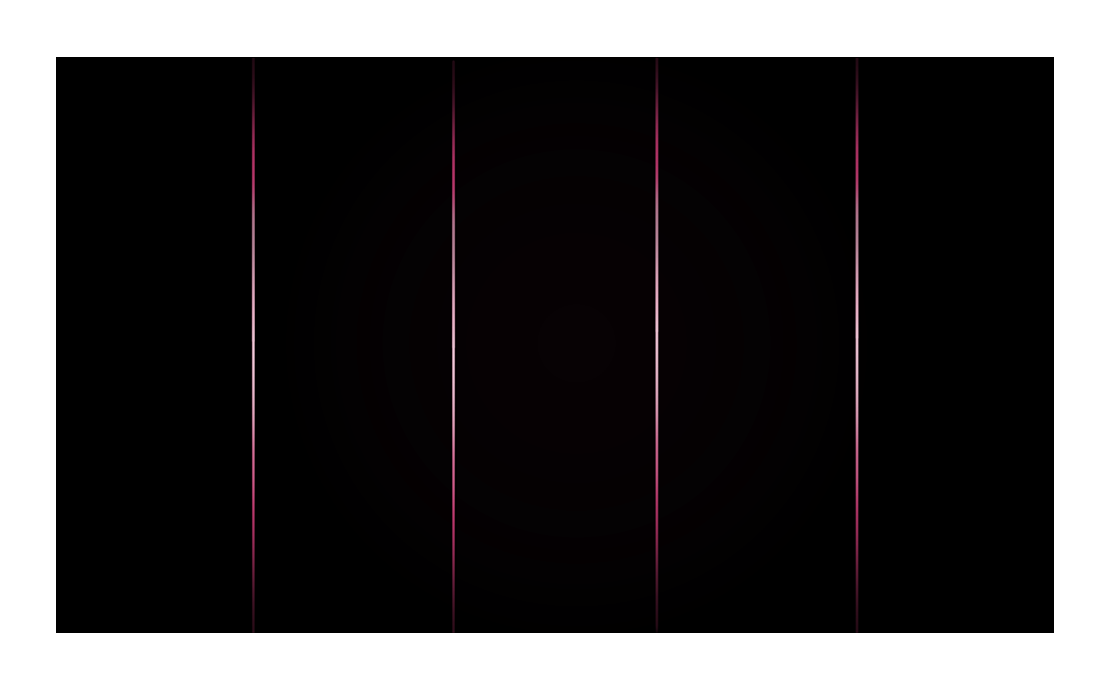
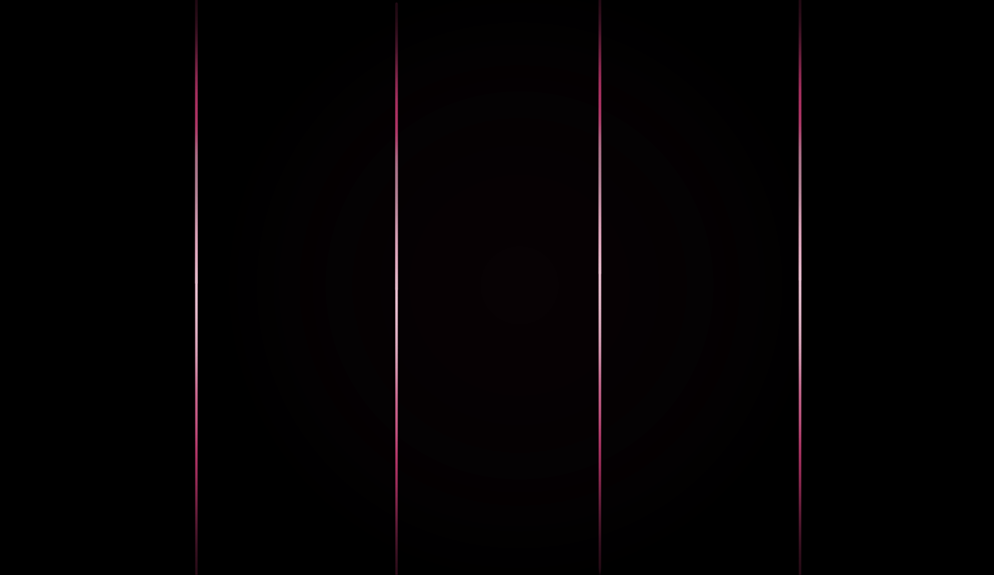
feat: add reels and tiles

Changed region(s): [[0.0, 0.0, 1.0, 1.0], [0.1871, 0.3252, 0.2495, 0.6504], [0.4054, 0.2957, 0.4366, 0.6209]]

diff --git a/index.ts b/index.ts
@@ -3,10 +3,19 @@ import { Machine } from "./src/Machine";
 import { urls } from "./img";
 import { SpinButton } from "./src/SpinButton";
 import { delay } from './src/utils'
+import { Outcome } from './src/Outcome';
 
-const screen = {
-    width: 1920,
-    height: 1080
+const config = {
+    screen: {
+        width: 1920,
+        height: 1080,
+    },
+    reels: {
+        columns: 5,
+        rows: 5,
+        visibleTiles: 3,
+    },
+    symbols: ['high1', 'high2', 'high3', 'low1', 'low2', 'low3', 'low4']
 };
 
 const STATES = {
@@ -22,18 +31,20 @@ class MainScene extends Container {
     constructor() {
         super();
 
+        const { screen, reels, symbols } = config;
+
         const background = Sprite.from('background');
         background.anchor.set(0.5);
         background.position.set(screen.width * 0.5, screen.height * 0.5);
         this.addChild(background);
 
-        const reels = Sprite.from('reels_base');
-        reels.anchor.set(0.5);
-        reels.position.set(screen.width * 0.5, screen.height * 0.5);
-        this.addChild(reels);
+        const reelsBg = Sprite.from('reels_base');
+        reelsBg.anchor.set(0.5);
+        reelsBg.position.set(screen.width * 0.5, screen.height * 0.5);
+        this.addChild(reelsBg);
 
-        const machine = new Machine();
-        machine.position.set(screen.width * 0.5 - reels.width * 0.5, screen.height * 0.5 - reels.height * 0.5);
+        const machine = new Machine({ reelsGuide: reelsBg, config: { ...reels, symbols } });
+        machine.position.set(screen.width * 0.5 - reelsBg.width * 0.5, screen.height * 0.5 - reelsBg.height * 0.5);
         this.addChild(machine);
 
         const spinButton = new SpinButton();
@@ -81,6 +92,8 @@ class Game {
     async setState(state: typeof STATES[keyof typeof STATES]): Promise<void> {
         if (this._state === state) return;
 
+        const { reels: { columns, rows }, symbols } = config;
+
         this._state = state;
 
         switch (state) {
@@ -93,6 +106,10 @@ class Game {
             case STATES.SPINNING:
                 console.error('SPINNING') // TEMP
                 await delay(1);
+
+                const response = Outcome.resolve({ columns, rows, symbols });
+                console.error(response)
+
                 return await this.setState(STATES.WIN);
 
             case STATES.WIN:
@@ -108,7 +125,7 @@ class Game {
 
     globalThis.__PIXI_APP__ = app; // TEMP
 
-    await app.init({ width: screen.width, height: screen.height });
+    await app.init(config.screen);
     document.body.appendChild(app.canvas);
 
     const game = new Game();
@@ -129,6 +146,8 @@ class Game {
 })();
 
 function resize(container: Container) {
+    const { screen } = config;
+
     const scale = Math.min(
         window.innerWidth / screen.width,
         window.innerHeight / screen.height

diff --git a/src/Machine.ts b/src/Machine.ts
@@ -1,9 +1,80 @@
-import {Container} from "pixi.js";
+import { Container, Sprite, Texture, Graphics } from "pixi.js";
 
-export class Machine extends Container {
-    constructor() {
-        super();
+class Tile extends Sprite {
+    constructor(texture: Texture) {
+        super(texture);
     }
 
-    update(dt: number): void {}
+    setSymbol(texture: Texture) {
+        this.texture = texture;
+    }
+}
+class Reel extends Container {
+    private _textures: Texture[];
+    private _tilesCount: number;
+    private _visibleTiles: number;
+
+    constructor({ tilesCount, visibleTiles, size, textures }: { tilesCount: number, visibleTiles: number, size: { width: number, height: number }, textures: Texture[] }) {
+        super();
+
+        this._textures = textures;
+        this._tilesCount = tilesCount;
+        this._visibleTiles = visibleTiles;
+
+        this.addTiles(size);
+    }
+
+    addTiles(size: { width: number, height: number }) {
+        const tileHeight = size.height / this._visibleTiles;
+
+        for (let i = -1; i < this._visibleTiles + 1; i++) {
+            const tile = new Tile(this._textures[Math.floor(Math.random() * this._textures.length)]);
+
+            tile.position.set(0, i * tileHeight);
+            tile.setSize(size.width, tileHeight);
+
+            this.addChild(tile);
+        }
+    }
+}
+
+export class Machine extends Container {
+    constructor({ reelsGuide, config }: { reelsGuide: Sprite; config: any }) {
+        super();
+
+        const reelWidth = reelsGuide.width / config.columns;
+        const reelHeight = reelsGuide.height;
+        const textures = this.createTextures(config.symbols);
+        const mask = this.createMask(reelsGuide);
+        const reelsContainer = new Container();
+
+        for (let i = 0; i < config.columns; i++) {
+            const reel = new Reel({ tilesCount: config.rows, visibleTiles: config.visibleTiles, size: { width: reelWidth, height: reelHeight }, textures });
+            reel.position.set(i * reelWidth, 0);
+            reelsContainer.addChild(reel);
+        };
+
+        reelsContainer.mask = mask;
+        this.addChild(reelsContainer);
+    }
+
+    update(dt: number): void { }
+
+    createTextures(symbols: string[]) {
+        return symbols.map(symbol => Texture.from(symbol));
+    }
+
+    createMask(reelsGuide: Sprite) {
+        const mask = new Graphics()
+            .rect(
+                0, 0,
+                reelsGuide.width,
+                reelsGuide.height
+            )
+            .fill(0xffffff);
+
+        this.addChild(mask);
+
+        return mask;
+    }
 }

diff --git a/src/Outcome.ts b/src/Outcome.ts
@@ -1,11 +1,7 @@
 export class Outcome {
-    constructor() {}
+    constructor() { }
 
-    static resolve(): string[][] {
-        const columns = 5;
-        const rows = 3;
-        const symbols = ['high1', 'high2', 'high3', 'low1', 'low2', 'low3', 'low4'];
-
+    static resolve({ columns, rows, symbols }: { columns: number; rows: number; symbols: string[] }): string[][] {
         const outcome: string[][] = [];
         for (let i = 0; i < columns; i++) {
             const column = [];
